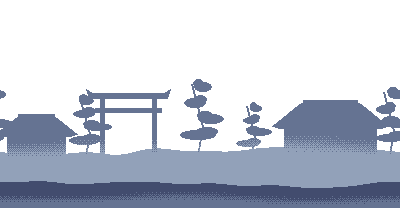
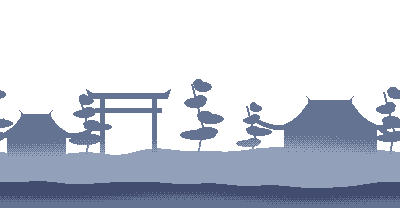
Temple garden: subtle route highlight, route fitted to wide eaves
Claude-Session: https://claude.ai/code/session_0114fZk9r84XsbnoNJLbsP6i

diff --git a/index.html b/index.html
@@ -1211,10 +1211,10 @@ kbd { font-family: var(--body); background: var(--panel); padding: 1px 6px; bord
     return { name, style: sty[0] || undefined, wall: sty[1], floor: sty[0] === 'block' ? ['#8b9bb4', '#5a6988'] : ['#b86f50', '#733e39'], decor, props, deco };
   }
   function genCourt(b) { /* the dojo as a temple compound (Daniel, 2026-11-15: "separate an entire dojo into different buildings. people enter the garden and can go to the rooftop by (you create)"; references: a red-walled courtyard, a torii with pines and a pavilion, a koi pond with an arched bridge). The way up is Claude's proposal: a stone step, the pavilion's two roof tiers, a cherry tree, a pine on a stone terrace, then the end of the next hall, whose eave is the hall roof (640). Each hop is at most 144. On the ground 我 goes over the bridge and on into the hall */
-    const props = [], inv = (x, w, h) => props.push({ k: 'inv', plat: 1, raw: 1, x, w, h }); /* invisible one-way walk lines on drawn scenery */
-    props.push({ k: 'rock', x: 570, w: 100, h: 112 }, { k: 'rock', x: 1300, w: 200, h: 112 });
-    inv(836, 432, 224); inv(836, 160, 320); inv(1120, 200, 360); inv(1300, 220, 500); inv(1456, 304, 640);
-    const deco = [['koi_pond', 280, -36], ['arch_bridge', 280, 0], ['pavilion', 836, 0], ['cherry_tree', 1120, 0], ['stone_lantern', 160 + (b % 2) * 1020, 0], ['pine', 1300, 112], ['hall_end', 1456, 0]];
+    const props = [], inv = (x, w, h, h2) => props.push({ k: 'inv', plat: 1, raw: 1, x, w, h, h2 }); /* invisible one-way walk lines on drawn scenery; h2 = height at the right end (a sloping roof) */
+    props.push({ k: 'rock', x: 570, w: 100, h: 112 }, { k: 'rock', x: 1080, w: 200, h: 80 });
+    inv(836, 560, 236); inv(836, 380, 288); inv(836, 120, 336); inv(1080, 220, 466); inv(1190, 100, 484); inv(1284, 88, 484, 532); inv(1364, 72, 532, 640); inv(1504, 208, 640);
+    const deco = [['koi_pond', 280, -36], ['arch_bridge', 280, 0], ['cherry_tree', 120 + (b % 2) * 300, 0], ['pavilion', 836, 0], ['stone_lantern', 1240, 0], ['pine', 1080, 80], ['hall_end', 1392, 0, 1]];
     return { name: 'TEMPLE GARDEN ' + b, sec: 'dojo', outdoor: 1, court: 1, tall: 1, arch: [40, 480], props, deco };
   }
   function genDojo(n, hall) {
@@ -1537,7 +1537,7 @@ kbd { font-family: var(--body); background: var(--panel); padding: 1px 6px; bord
   const stairH = (p, x, half) => Math.round(p.h * clamp(((x - p.x) * p.rise + (half || 0)) / p.w + 0.5, 0, 1)); // `rise` props are one-way stairs: +1 climbs to the right, -1 to the left; 我 walks up from the foot or passes underneath
   function surfAt(x, half, y) { // with y: one-way platforms (beams) only count once 我 is on or above them
     let g = ROOMS[R.i].void ? -999 : rampAt(x); half = half || 0;
-    for (const p of R.props) if (!p.dead && !p.open && !p.ghost && Math.abs(x - p.x) < p.w / 2 + half && !(p.thru && y == null && P.y < p.h - 20)) { /* `thru`: a roof that only counts for fists while 我 stands on it, so the hall below is not one big shelter */ const ph = p.rise ? stairH(p, x, half) : p.h; if (!p.plat || y == null || ph <= y + STEP_UP) g = Math.max(g, ph); }
+    for (const p of R.props) if (!p.dead && !p.open && !p.ghost && Math.abs(x - p.x) < p.w / 2 + half && !(p.thru && y == null && P.y < p.h - 20)) { /* `thru`: a roof that only counts for fists while 我 stands on it, so the hall below is not one big shelter */ const ph = p.rise ? stairH(p, x, half) : p.h2 != null ? Math.round(p.h + (p.h2 - p.h) * clamp((x - p.x) / p.w + 0.5, 0, 1)) : p.h; if (!p.plat || y == null || ph <= y + STEP_UP) g = Math.max(g, ph); }
     return g;
   }
   // ----- rough sections: helpers -----
@@ -2379,7 +2379,10 @@ kbd { font-family: var(--body); background: var(--panel); padding: 1px 6px; bord
     const R_ = (c, x, y, ww, hh) => { ctx.fillStyle = c; ctx.fillRect(Math.round(x / PX) * PX, Math.round(y / PX) * PX, Math.round(ww), Math.round(hh)); };
     const S = (n, cx, bottom, flip) => { const im = A.ok(n); if (!im) return false; if (flip) { ctx.save(); ctx.translate(Math.round(cx / PX) * PX * 2, 0); ctx.scale(-1, 1); } spr(im, cx, bottom - im.naturalHeight * PX); if (flip) ctx.restore(); return true; };
     const cracks = () => { if (hurt) { R_('#181425', p.x - 12, t + 4, 4, 12); R_('#181425', p.x + 16, t, 4, 16); R_('#181425', p.x - 4, t + 12, 4, 8); } };
-    if (k === 'inv') return true; /* a walk line on scenery that is already drawn (temple garden) */
+    if (k === 'inv') { /* a walk line on scenery that is already drawn (temple garden). Daniel: the route should be highlighted, but not so bold that it feels out of place: a faint dotted warm edge, with a soft glint sweeping along it now and then */
+      const sw = ((now / 1000 + p.x / 700) % 3.2) / 1.2, hx = l + w * sw;
+      for (let x = l + 8; x < l + w - 4; x += 16) { const hh = p.h2 != null ? p.h + (p.h2 - p.h) * (x - l) / w : p.h, near = sw < 1 && Math.abs(x - hx) < 28; R_(near ? '#fee761' : '#feae34', x, FLOOR - hh - 4, 4, 4); }
+      return true; }
     if (k === 'ladder') { const im = A.ok('bamboo_ladder'); if (!im) return false; for (let y = FLOOR - (p.base || 0); y > FLOOR - (p.base || 0) - p.h + 4; y -= im.naturalHeight * PX) spr(im, p.x, y - im.naturalHeight * PX); return true; }
     if (k === 'raft') { const im = A.ok('raft'), tr = A.ok('trunk'); if (!im) return false;
       if (tr) for (const sx of [l + 28, l + w - 28]) for (let y = t + 40; y < FLOOR; y += tr.naturalHeight * PX) { const hh = Math.min(tr.naturalHeight * PX, FLOOR - y); ctx.drawImage(tr, 0, 0, tr.naturalWidth, hh / PX, sx - tr.naturalWidth * PX / 2, y, tr.naturalWidth * PX, hh); } /* stilts down to the ground */
@@ -2422,7 +2425,7 @@ kbd { font-family: var(--body); background: var(--panel); padding: 1px 6px; bord
     if (sc === 'lift') { const left = rideLeft(); if (left > 0) for (let k = 0; k < 14; k++) { const x = 120 + k * 104, y = ((R.t - R.t0) * 900 + rnd(k + 4) * 900) % (FLOOR + 80) - 80; bx(x, y, 4, 56, '#8b9bb4'); }
       bx(W / 2 - 200, 60, 400, 28, '#181425'); bx(W / 2 - 196, 64, Math.round(392 * (1 - left / rm.ride) / 8) * 8, 20, left > 0 ? '#feae34' : '#63c74d');
       ctx.fillStyle = '#ffffff'; ctx.font = '16px ' + PF; ctx.textAlign = 'center'; ctx.fillText(left > 0 ? `GOING UP · ${Math.ceil(left)}s` : 'TOP FLOOR · GO', W / 2, 110); }
-    for (const [n, x, bh] of rm.deco || []) { const im = A.ok(n); if (im) spr(im, x, FLOOR - bh - im.naturalHeight * PX); } // shrine pieces and the like: decor only
+    for (const [n, x, bh, fl] of rm.deco || []) { const im = A.ok(n); if (!im) continue; if (fl) { ctx.save(); ctx.translate(2 * Math.round(x / PX) * PX, 0); ctx.scale(-1, 1); } spr(im, x, FLOOR - bh - im.naturalHeight * PX); if (fl) ctx.restore(); } /* fl = mirrored */ // shrine pieces and the like: decor only
     if (R.i === ROOMS.length - 1 || rm.gate) { // the way out: a signpost with a blinking arrow, in place of the old door
       const x = W - 110, b = FLOOR - Math.max(0, surfAt(x)), on = Math.floor(now / 350) % 2;
       bx(x - 4, b - 136, 8, 136, '#3e2731'); bx(x - 4, b - 136, 4, 136, '#733e39'); bx(x - 52, b - 148, 104, 48, '#181425'); bx(x - 48, b - 144, 96, 40, '#f77622'); bx(x - 48, b - 144, 96, 4, '#feae34'); bx(x - 48, b - 108, 96, 4, '#be4a2f');

diff --git a/CLAUDE.md b/CLAUDE.md
@@ -289,8 +289,11 @@ A pixel-art party game in a single file, `index.html`, hosted on GitHub Pages
   arched bridge). The dojo section is now DOJO HALL x3, then four times a `genCourt` TEMPLE GARDEN (`outdoor`, `court`, `tall`) followed
   by a hall of 3, 3, 3 and 2 `genDojo` screens (named HALL n · kind). Gardens use the art thread's `temple` set (`artOf` → 'temple'):
   scenery is `deco` (koi_pond, arch_bridge, pavilion, cherry_tree, stone_lantern, pine on a stone terrace, hall_end) and the walk lines
-  are invisible one-way `inv` props. The way up (Claude's proposal, every hop ≤ 144): stone step 112 → pavilion eave 224 → roof tier
-  320 → cherry crown 360 → pine crown 500 → the next hall's end eave 640, then on along that hall's `ridge`. On the ground the
+  are invisible one-way `inv` props (`h2` = height at the right end makes a slope). The way up (Claude's proposal, every hop ≤ 144),
+  fitted to the art thread's wide-eave pavilion (148x90) and hall_end (128x170, drawn flipped: deco `[sprite, x, h, 1]`): stone step 112 →
+  pavilion eaves 236 → upper tier 288 → ridge 336 → pine crown 466 (x 1080) → hall eave tip 484 → hip slope up to the ridge 640, then on
+  along the next hall's `ridge`. Route highlight (Daniel: "highlighted but not too bold"): `artProp` draws each `inv` line as a row of
+  4 px orange (#feae34) dots every 16 px, with a pale gold glint sweeping along it about every 3 s. On the ground the
   `arch` bridge is a hump in `rampAt` (physics only; `rampAt0` is the drawn ground). In a tall room, layers with no `_tall` picture sink
   as the camera rises (`artBack`, factor ≥ 0.1 fully, else 0.6). The earlier bamboo scaffold in the gardens is gone.
 - Catch and throw back (Daniel picked option A for 我's combat, 2026-11-15; the details are Claude's): a perfect block on a normal fist (not
